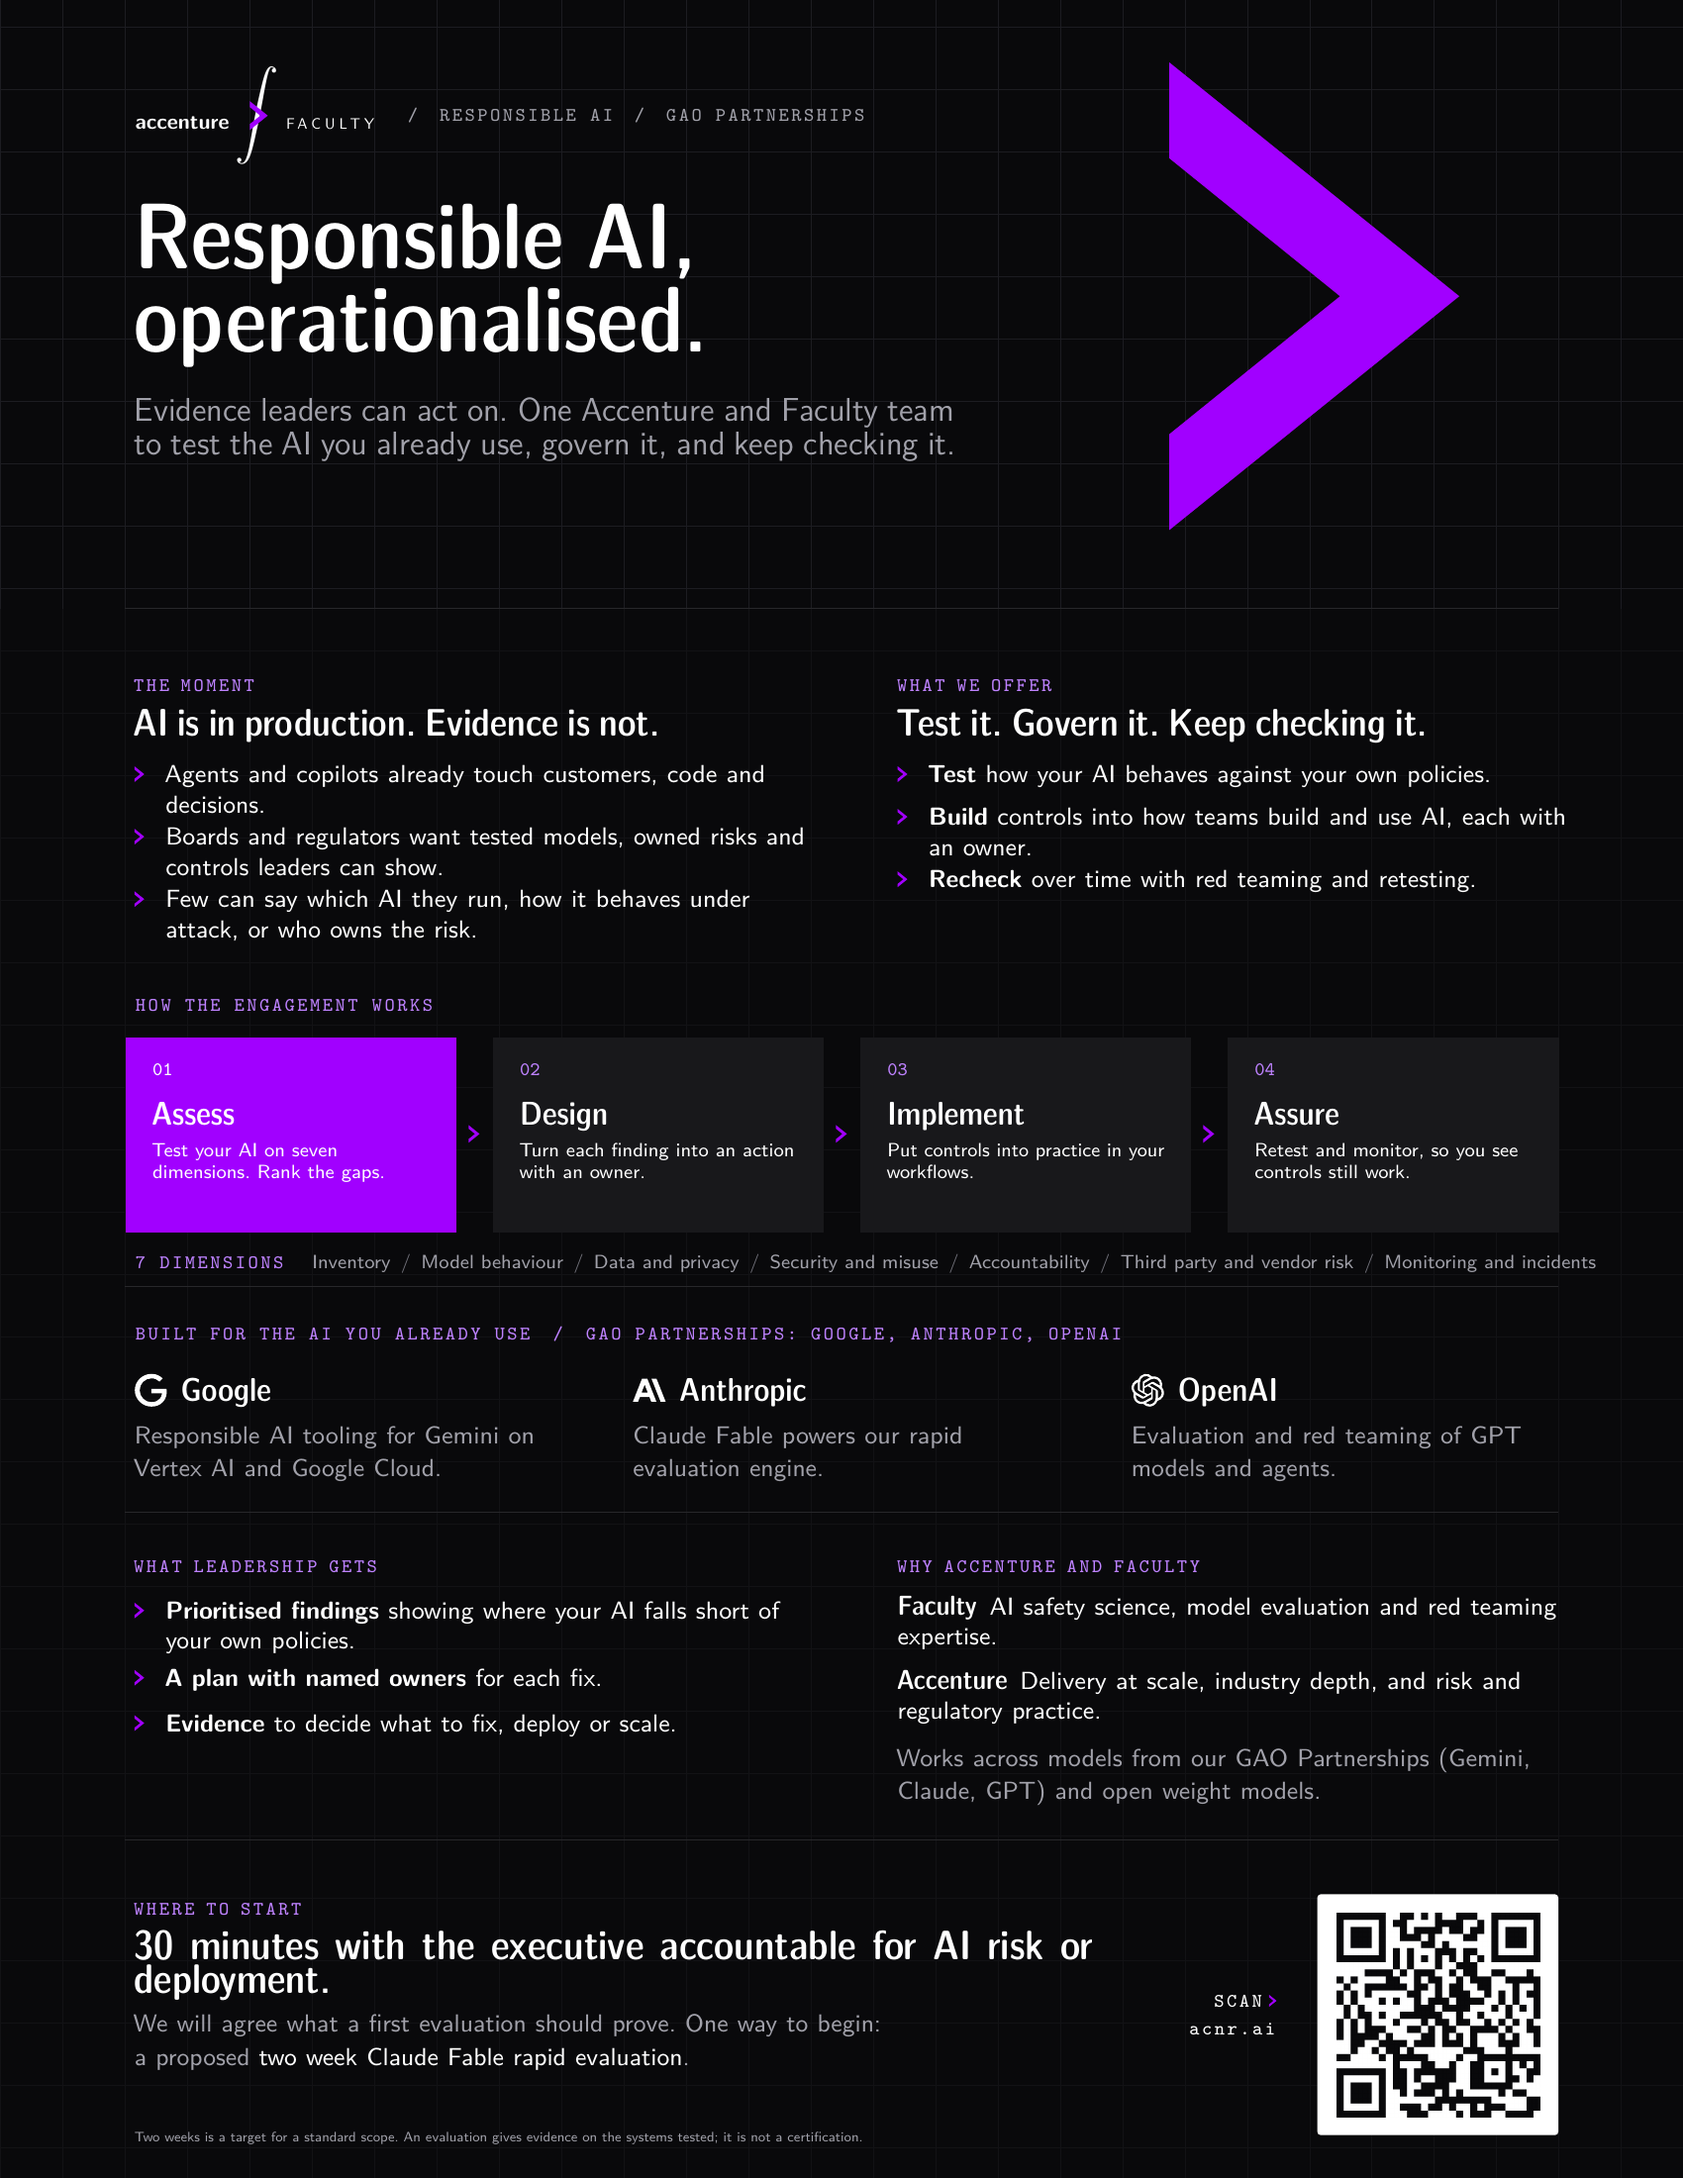
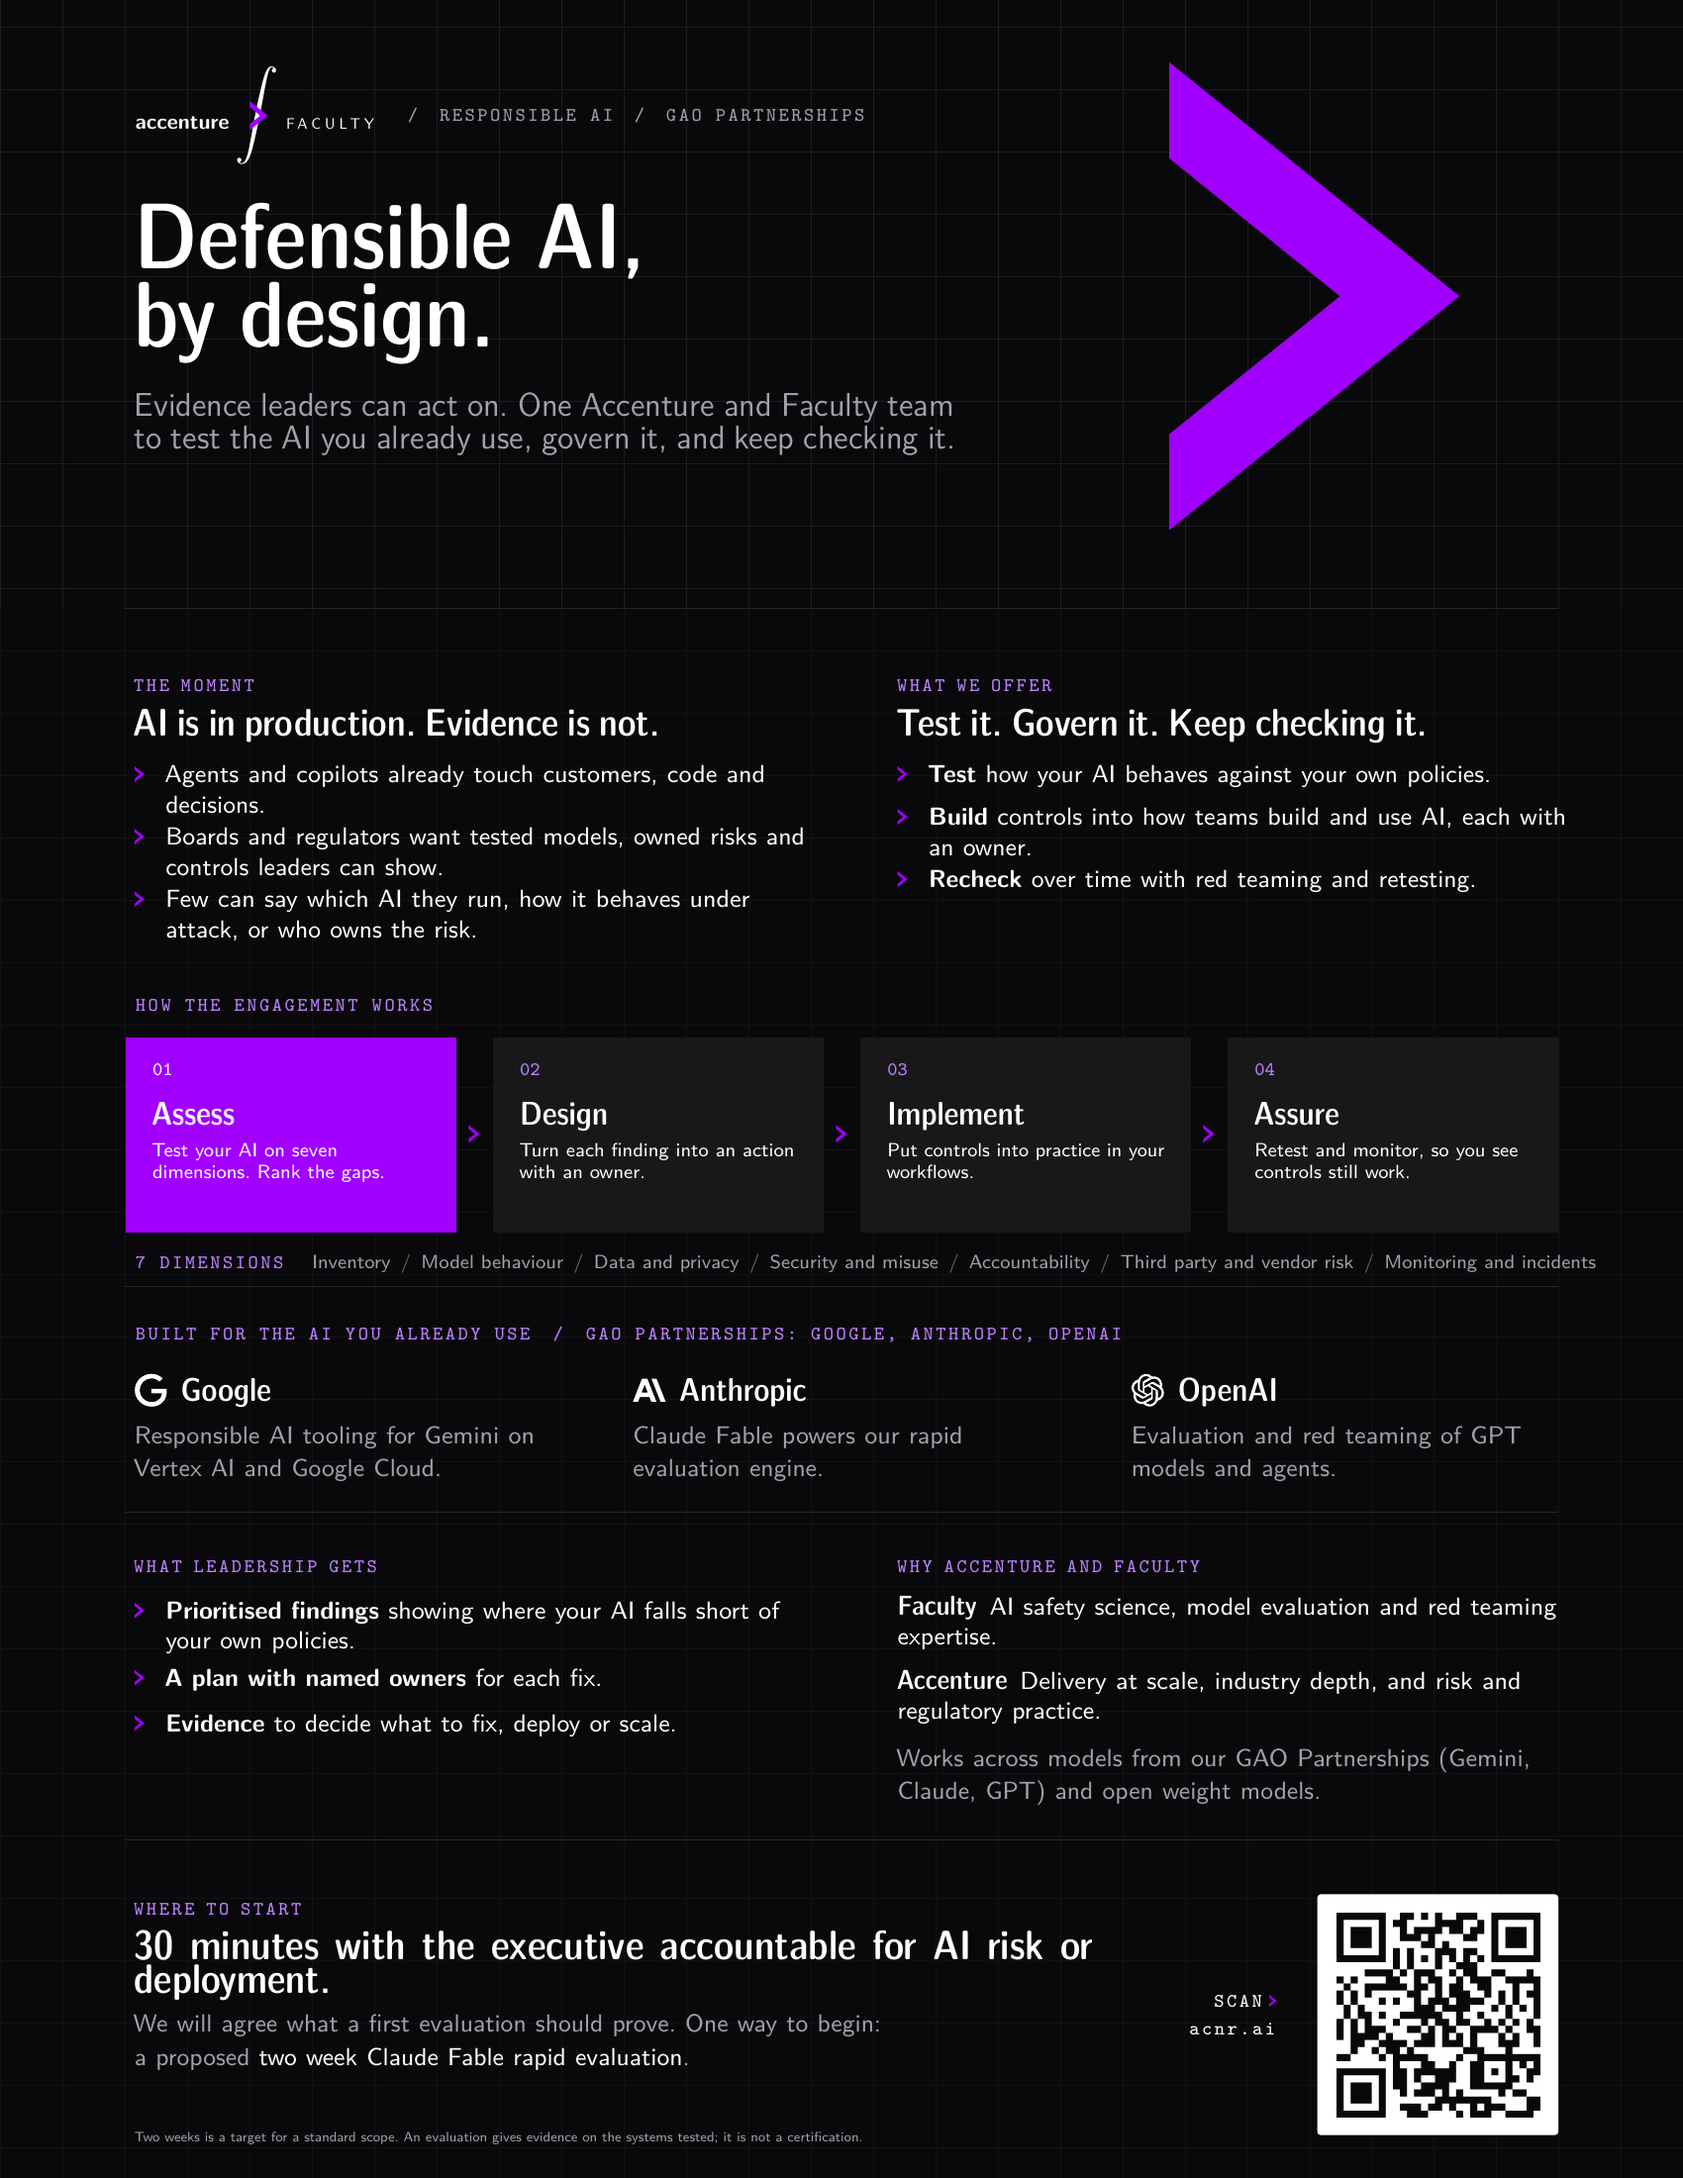
Headline: Defensible AI, by design.
Hero, page title, share image and alt text, sign in page, One Pager page
copy, and the one pager PDF.

Claude-Session: https://claude.ai/code/session_01Lg8vxVPUcR7bjTzfhh8AxX

Changed region(s): [[0.0624, 0.0927, 0.5612, 0.2164]]

diff --git a/site/gate/gate.js b/site/gate/gate.js
@@ -67,7 +67,7 @@ button:hover{background:#fff;color:#000}
 </style></head><body>
 <svg class="chev" viewBox="0 0 62 100" aria-hidden="true"><path d="M0 0 L62 50 L0 100 L0 79.5 L36.5 50 L0 20.5 Z"/></svg>
 <main><img class="logo" src="/brand/cobrand.svg" alt="Accenture and Faculty"><p class="k">Private preview</p>
-<h1>AI you can<br>defend.</h1>
+<h1>Defensible AI,<br>by design.</h1>
 <form method="post" action="/__login"><input type="hidden" name="next" value="${next.replace(/"/g, '&quot;')}">
 <input type="password" name="password" placeholder="Password" aria-label="Password" autocomplete="current-password" autofocus required>
 <button type="submit">Enter</button></form>

diff --git a/site/src/data/site.ts b/site/src/data/site.ts
@@ -12,7 +12,7 @@ export const PRC_FULL = 'Policy, Risk & Controls';
 export const DRAFT = false;
 
 export const meta = {
-  title: 'Responsible AI, operationalised | Accenture and Faculty',
+  title: 'Defensible AI, by design | Accenture and Faculty',
   description:
     'Assess, govern and red team the AI you already run. One Accenture and Faculty team, across Google, Anthropic and OpenAI models.',
 };
